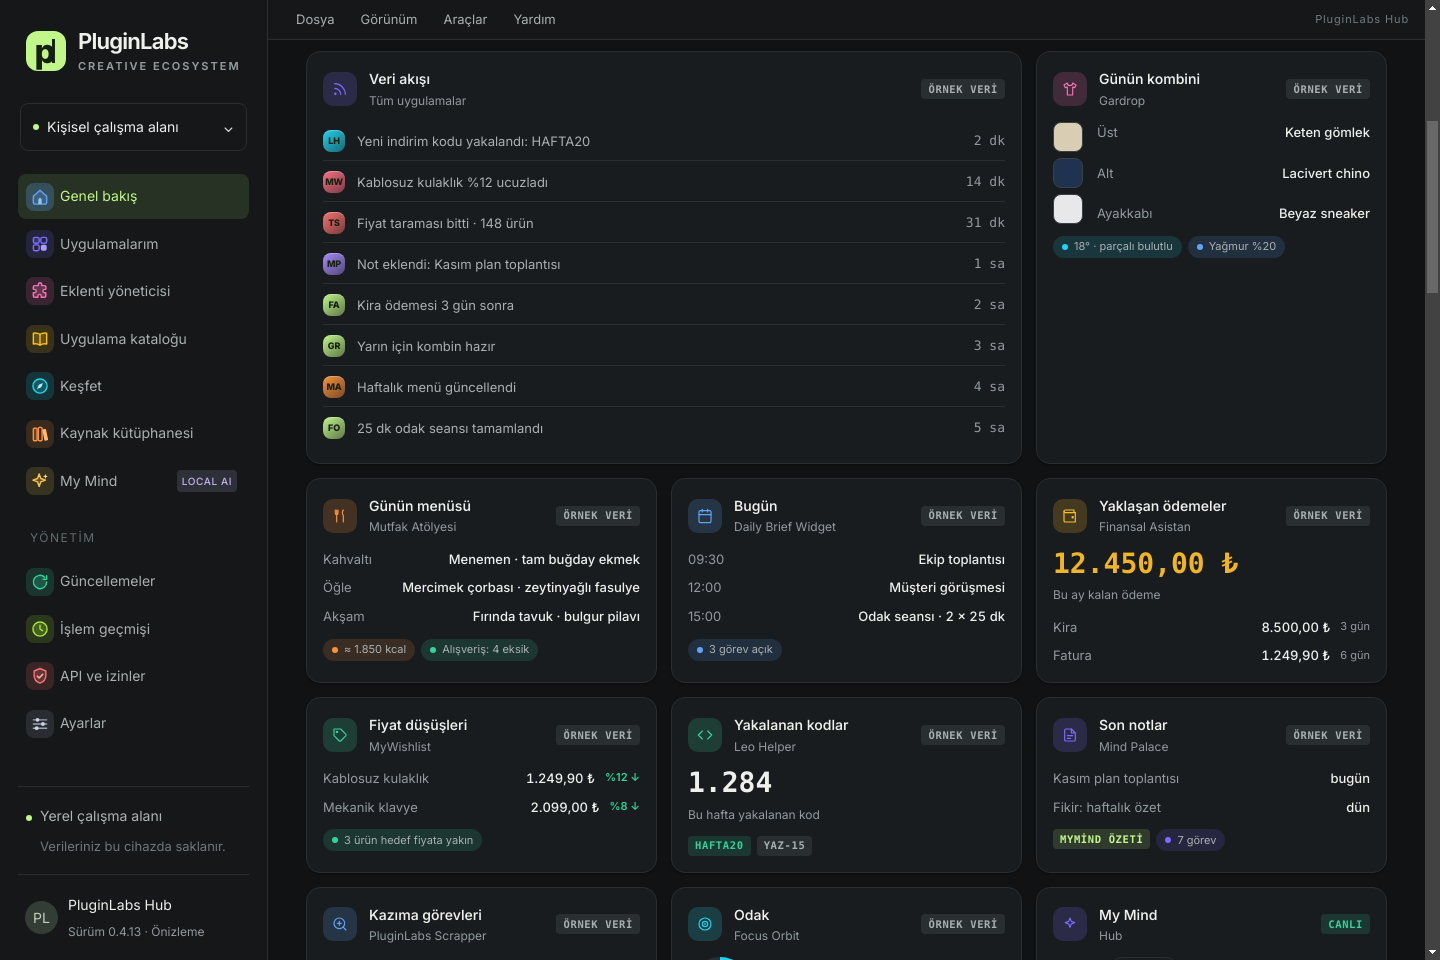
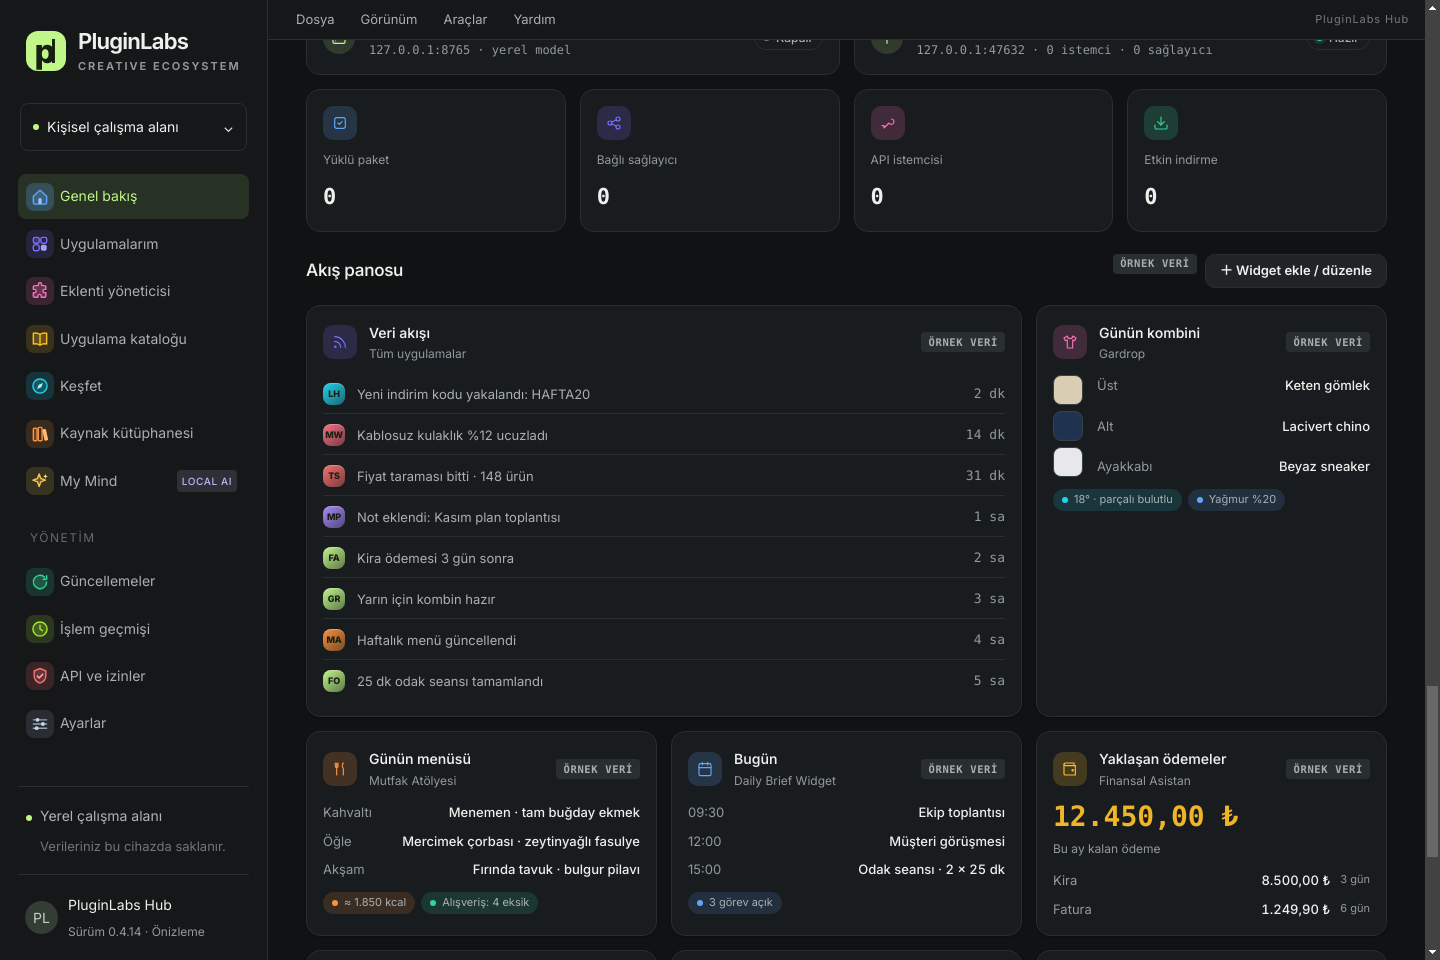
[hub] Genel bakış: özgün düzen korunur, durum kartları ve Akış panosu devamında
Claude-Session: https://claude.ai/code/session_012qJEwEKPChoFpL5fVsx5iw

diff --git a/ui/app.js b/ui/app.js
@@ -343,7 +343,7 @@ function render() {
   let html = "";
   if (page === "home") {
     const installed = Object.keys(state.installed).length;
-    html = `${heading("Her şey, tek bir yerde.", "Uygulamalarınız, yaratıcı kaynaklarınız ve yerel yapay zekânız.", `<span class="pill">KİŞİSEL ÇALIŞMA ALANI</span>`)}${statusCards(true)}${widgetsSection()}<section class="hero"><div class="hero-copy"><div class="eyebrow">TANIŞTIRALIM · MY MIND</div><h2>Küçük model.<br>Büyük bir çalışma alanı.</h2><p>My Mind’i cihazınıza yükleyin. Metinleri özetleyin, fikirlerinizi düzenleyin ve uygulamalarınıza yerel AI ekleyin.</p><button class="btn primary" data-go="mymind">My Mind’i keşfet <span>↗</span></button></div><div class="hero-art" aria-hidden="true"><span class="orbit"></span><span class="orbit two"></span><span class="ai-symbol">✳</span><span class="float-chip top">ON-DEVICE INTELLIGENCE</span><span class="float-chip">● Yerel sunucu · Kontrol sizde</span></div></section><div class="row-heading"><h2>Çalışma alanınız için</h2><button class="text-button" data-go="discover">Tüm uygulamalar ↗</button></div>${grid([...apps, ...catalog.filter((i) => i.id === "mymind-lite")])}<div class="section-split"><section class="card"><div class="row-heading" style="margin-top:0"><h2>Kaynak kütüphanesi</h2><button class="text-button" data-go="resources">Tümünü gör ↗</button></div>${resources
+    html = `${heading("Her şey, tek bir yerde.", "Uygulamalarınız, yaratıcı kaynaklarınız ve yerel yapay zekânız.", `<span class="pill">KİŞİSEL ÇALIŞMA ALANI</span>`)}<section class="hero"><div class="hero-copy"><div class="eyebrow">TANIŞTIRALIM · MY MIND</div><h2>Küçük model.<br>Büyük bir çalışma alanı.</h2><p>My Mind’i cihazınıza yükleyin. Metinleri özetleyin, fikirlerinizi düzenleyin ve uygulamalarınıza yerel AI ekleyin.</p><button class="btn primary" data-go="mymind">My Mind’i keşfet <span>↗</span></button></div><div class="hero-art" aria-hidden="true"><span class="orbit"></span><span class="orbit two"></span><span class="ai-symbol">✳</span><span class="float-chip top">ON-DEVICE INTELLIGENCE</span><span class="float-chip">● Yerel sunucu · Kontrol sizde</span></div></section><div class="row-heading"><h2>Çalışma alanınız için</h2><button class="text-button" data-go="discover">Tüm uygulamalar ↗</button></div>${grid([...apps, ...catalog.filter((i) => i.id === "mymind-lite")])}<div class="section-split"><section class="card"><div class="row-heading" style="margin-top:0"><h2>Kaynak kütüphanesi</h2><button class="text-button" data-go="resources">Tümünü gör ↗</button></div>${resources
       .slice(0, 3)
       .map(
         (i) =>
@@ -351,7 +351,7 @@ function render() {
       )
       .join(
         "",
-      )}</section><section class="card api-card"><div class="eyebrow">BİRBİRİYLE ÇALIŞAN ARAÇLAR</div><h3>Bir merkez.<br>Bağlantılı bir ekosistem.</h3><p>Uygulamalarınızı izinli yerel API ile bağlayın. Kaynakları paylaşın, ortak AI motorunu kullanın.</p><div class="api-stat"><div><strong>${installed}</strong>yüklü paket</div><div><strong>${state.providers.length}</strong>bağlı sağlayıcı</div><div><strong>${state.clients.length}</strong>API istemcisi</div></div><button class="btn ghost" data-go="api">API ve bağlantıları yönet ↗</button></section></div>`;
+      )}</section><section class="card api-card"><div class="eyebrow">BİRBİRİYLE ÇALIŞAN ARAÇLAR</div><h3>Bir merkez.<br>Bağlantılı bir ekosistem.</h3><p>Uygulamalarınızı izinli yerel API ile bağlayın. Kaynakları paylaşın, ortak AI motorunu kullanın.</p><div class="api-stat"><div><strong>${installed}</strong>yüklü paket</div><div><strong>${state.providers.length}</strong>bağlı sağlayıcı</div><div><strong>${state.clients.length}</strong>API istemcisi</div></div><button class="btn ghost" data-go="api">API ve bağlantıları yönet ↗</button></section></div>${statusCards(true)}${widgetsSection()}`;
   }
   if (page === "apps") {
     const mine = catalog.filter((i) => state.installed[i.id]);

diff --git a/ui/hub-kasim.css b/ui/hub-kasim.css
@@ -777,3 +777,8 @@ html[data-mode="light"] .card {
   overflow: hidden;
   text-overflow: ellipsis;
 }
+
+/* Genel bakış: özgün düzen korunur; yeni bölümler (durum kartları, istatistikler, Akış panosu) devamında gelir. */
+.section-split ~ .status-row {
+  margin-top: 28px;
+}

diff --git a/RELEASE-NOTES.md b/RELEASE-NOTES.md
@@ -2,7 +2,7 @@ PluginLabs Hub 0.4.14 — PluginLabs Advanced arayüzü, Akış panosu ve Widget
 
 - Tasarım sistemi: PluginLabs Advanced (v2.0.0) depoya kuruldu (`design-system/pluginlabs-advanced`, eski `pluginlabs-design` `design-system/_arsiv/` altında). Hub arayüzü Advanced bileşenleri ve değerlerine taşındı; Hub Yeşil ve Iris paletleri ile koyu/açık tema korundu.
 - Üst menü (Dosya, Görünüm, Araçlar, Yardım), kayan akış bandı, sunucu ve bağlantı durum kartları, istatistik kartları, Ctrl+K komut paleti (opak panel), renkli menü simgeleri; menüde kaydırma çubuğu yok.
-- Genel bakış: Akış panosu — Veri akışı, Günün kombini, Günün menüsü, Bugün, Yaklaşan ödemeler, Fiyat düşüşleri, Yakalanan kodlar, Son notlar, Kazıma görevleri, Odak ve My Mind widget'ları. Şimdilik My Mind dışındakiler ÖRNEK VERİ gösterir ve "Örnek veri" rozeti taşır; uygulama yüklüyse ilgili widget genişler. Uygulamalar Hub'a veri akıtmaya başlayana kadar gerçek veri yoktur.
+- Genel bakış: özgün düzen (karşılama, “Çalışma alanınız için”, kaynaklar ve API kartı) olduğu gibi korunur; yeni bölümler devamında gelir: durum ve istatistik kartları, ardından Akış panosu — Veri akışı, Günün kombini, Günün menüsü, Bugün, Yaklaşan ödemeler, Fiyat düşüşleri, Yakalanan kodlar, Son notlar, Kazıma görevleri, Odak ve My Mind widget'ları. Şimdilik My Mind dışındakiler ÖRNEK VERİ gösterir ve "Örnek veri" rozeti taşır; uygulama yüklüyse ilgili widget genişler. Uygulamalar Hub'a veri akıtmaya başlayana kadar gerçek veri yoktur.
 - Ayarlar: beş sekme (Görünüm, Widget'lar, Veri ve gizlilik, Bağlantılar, Kısayollar, Hakkında) ve Widget düzenleyici (widget ekle/çıkar, sıra, varsayılana dön; bu cihazda saklanır). Hub sürümü artık gerçek değeri gösterir (önceden 0.3.0 yazıyordu).
 - Uygulamalarım: istatistik kartları, tür süzgeci, ızgara/liste görünümü, boş durum. My Mind sayfasındaki kart boşluğu düzeltildi.
 - Üst başlıkta "Pro'ya geç" düğmesi var; Pro planı henüz yoktur, düğme bunu açıklayan bir pencere açar.

diff --git a/README.md b/README.md
@@ -12,7 +12,7 @@ Uygulamalara, kaynak kütüphanesine ve yerel My Mind yönetimine tek ekrandan e
 
 ![PluginLabs Hub genel bakış ekranı (0.4.14, Linux/Xvfb)](docs/screenshots/overview.png)
 
-Akış panosu: uygulamalardan gelecek veri akışları için widget'lar. Şimdilik My Mind dışındakiler örnek veridir; uygulama yüklenince ilgili widget genişler.
+Genel bakışın özgün düzeni korunur; durum kartları ve Akış panosu (uygulamalardan gelecek veri akışları için widget'lar) devamında yer alır. Şimdilik My Mind dışındakiler örnek veridir; uygulama yüklenince ilgili widget genişler.
 
 ![Akış panosu widget'ları, örnek veri (0.4.14, Linux/Xvfb)](docs/screenshots/akis-panosu.png)
 
